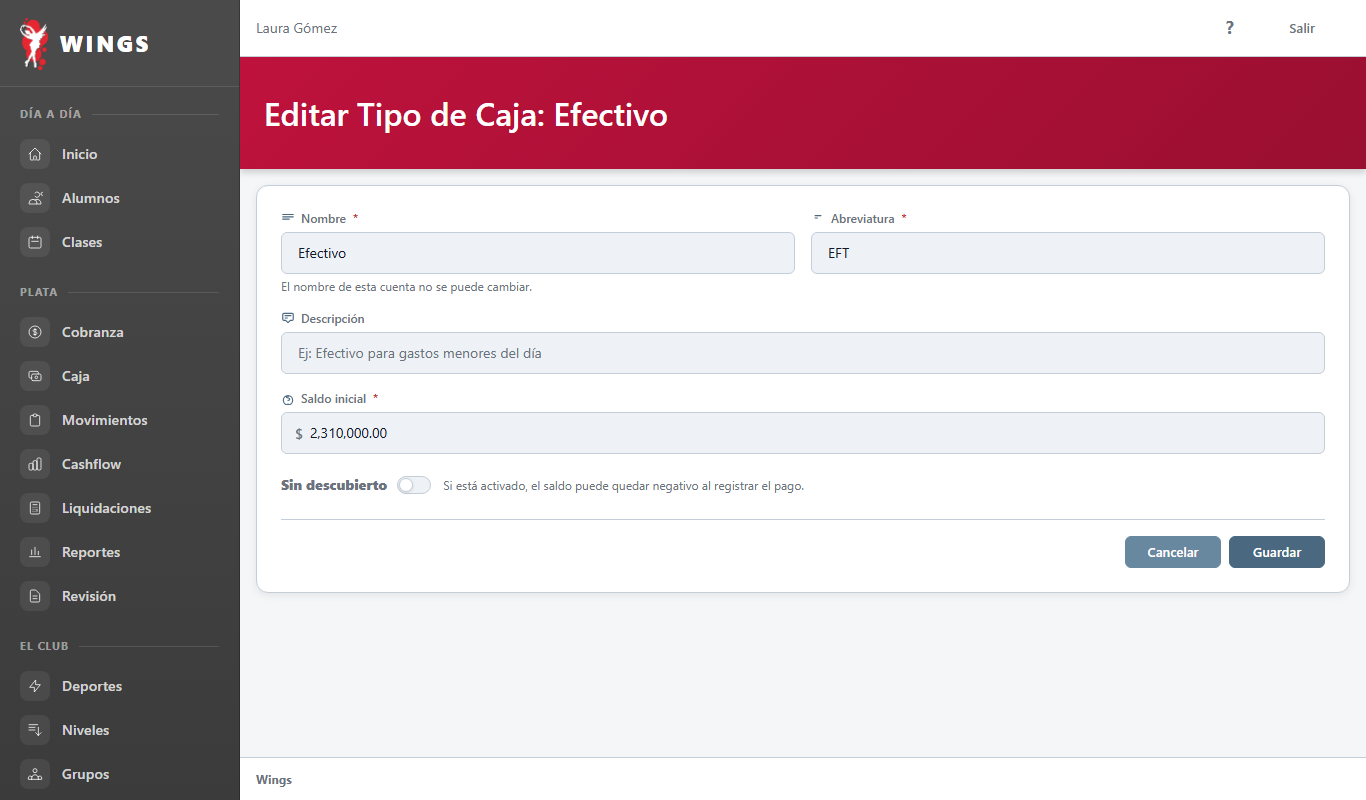
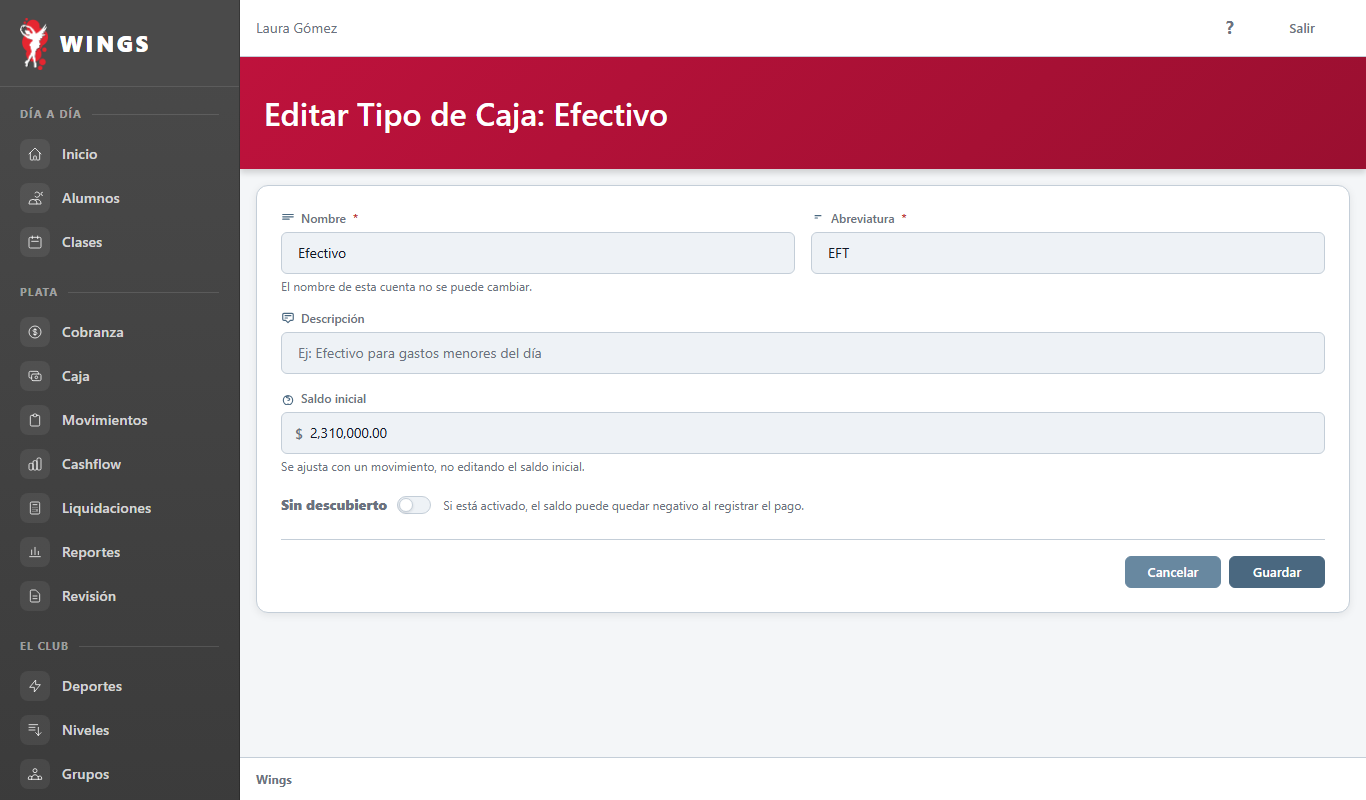
T96: propuesta con el saldo de Efectivo fijo una vez guardado
Pedido de Carlos: cualquier ajuste posterior se hace con un movimiento. Solo cambian las capturas; las vistas siguen igual.

Changed region(s): [[0.1845, 0.5625, 0.5842, 0.6562], [0.7994, 0.6562, 0.9839, 0.75]]

diff --git a/docs/06-pruebas/PRU-04/evidencia-t96/propuesta/html/tipo-caja-efectivo.html b/docs/06-pruebas/PRU-04/evidencia-t96/propuesta/html/tipo-caja-efectivo.html
@@ -3,7 +3,7 @@
 <head>
     <meta charset="utf-8">
     <meta name="viewport" content="width=device-width, initial-scale=1">
-    <meta name="csrf-token" content="wwGAkYJWMB8qHbzw7frOmsOF6N4OolrbOO0ui6R8">
+    <meta name="csrf-token" content="p1tvtMHm5CzNi1BPeU2vQCU2ccIwCyElJTIbNX8j">
     <title>Editar Tipo de Caja – Efectivo</title>
     <link rel="icon" type="image/x-icon" href="http://gestion-wings/favicon.ico">
     <link rel="icon" type="image/png" sizes="32x32" href="http://gestion-wings/favicon-32x32.png">
@@ -236,7 +236,7 @@
                             <span style="font-weight:700; font-size:1.15rem; line-height:1; display:inline-block; transform:translateY(-1px);">?</span>
                         </a>
                                         <form method="POST" action="http://gestion-wings/logout">
-                        <input type="hidden" name="_token" value="wwGAkYJWMB8qHbzw7frOmsOF6N4OolrbOO0ui6R8" autocomplete="off">                        <button class="ds-btn ds-btn--ghost"
+                        <input type="hidden" name="_token" value="p1tvtMHm5CzNi1BPeU2vQCU2ccIwCyElJTIbNX8j" autocomplete="off">                        <button class="ds-btn ds-btn--ghost"
             type="submit"
             >
 
@@ -263,7 +263,7 @@
             
             <div class="filtros-card">
     <form method="POST" action="http://gestion-wings/tipos-caja/1">
-        <input type="hidden" name="_token" value="wwGAkYJWMB8qHbzw7frOmsOF6N4OolrbOO0ui6R8" autocomplete="off">        <input type="hidden" name="_method" value="PUT">        <div class="grid grid-cols-1 md:grid-cols-2 gap-4">
+        <input type="hidden" name="_token" value="p1tvtMHm5CzNi1BPeU2vQCU2ccIwCyElJTIbNX8j" autocomplete="off">        <input type="hidden" name="_method" value="PUT">        <div class="grid grid-cols-1 md:grid-cols-2 gap-4">
 
     
     <div>
@@ -316,23 +316,24 @@
     <div class="md:col-span-2">
         <label for="saldo_inicial" class="flex items-center gap-1.5 text-xs font-medium mb-1.5 text-wings-muted">
             <svg class="w-3.5 h-3.5 flex-shrink-0" fill="none" stroke="currentColor" viewBox="0 0 24 24" style="color: var(--color-btn-primary)"><path stroke-linecap="round" stroke-linejoin="round" stroke-width="2" d="M12 8c-1.657 0-3 .895-3 2s1.343 2 3 2 3 .895 3 2-1.343 2-3 2m0-8v2m0 12v2m8-8a8 8 0 11-16 0 8 8 0 0116 0z"/></svg>
-            Saldo inicial <span class="form-required">*</span>        </label>
+            Saldo inicial         </label>
                 <div class="money-input-wrap ">
         <span class="money-prefix" aria-hidden="true">$</span>
         <input
         type="text"
-         id="saldo_inicial"          name="saldo_inicial"         value="2,310,000.00"
+         id="saldo_inicial"                 value="2,310,000.00"
         placeholder="0"
         inputmode="decimal"
         autocomplete="off"
         data-money="true"
-        required
         
         
+        readonly
         min="0"
                 class="w-full py-2.5 text-sm wings-input money-input"
     >
 </div>
+<p class="text-xs mt-1 text-wings-muted">Se ajusta con un movimiento, no editando el saldo inicial.</p>
                     </div>
 
     

diff --git a/docs/06-pruebas/PRU-04/evidencia-t96/propuesta/html/configuracion-saldo-editable.html b/docs/06-pruebas/PRU-04/evidencia-t96/propuesta/html/configuracion-saldo-editable.html
@@ -3,7 +3,7 @@
 <head>
     <meta charset="utf-8">
     <meta name="viewport" content="width=device-width, initial-scale=1">
-    <meta name="csrf-token" content="wwGAkYJWMB8qHbzw7frOmsOF6N4OolrbOO0ui6R8">
+    <meta name="csrf-token" content="p1tvtMHm5CzNi1BPeU2vQCU2ccIwCyElJTIbNX8j">
     <title>Saldo inicial de Efectivo – Wings</title>
     <link rel="icon" type="image/x-icon" href="http://gestion-wings/favicon.ico">
     <link rel="icon" type="image/png" sizes="32x32" href="http://gestion-wings/favicon-32x32.png">
@@ -236,7 +236,7 @@
                             <span style="font-weight:700; font-size:1.15rem; line-height:1; display:inline-block; transform:translateY(-1px);">?</span>
                         </a>
                                         <form method="POST" action="http://gestion-wings/logout">
-                        <input type="hidden" name="_token" value="wwGAkYJWMB8qHbzw7frOmsOF6N4OolrbOO0ui6R8" autocomplete="off">                        <button class="ds-btn ds-btn--ghost"
+                        <input type="hidden" name="_token" value="p1tvtMHm5CzNi1BPeU2vQCU2ccIwCyElJTIbNX8j" autocomplete="off">                        <button class="ds-btn ds-btn--ghost"
             type="submit"
             >
 
@@ -262,7 +262,7 @@
             
             
             <div class="filtros-card">
-        <p class="text-sm text-wings-muted mb-4">Indicá cuánto efectivo tiene el club hoy. Después del primer movimiento de la cuenta, este saldo no se puede cambiar.</p>
+        <p class="text-sm text-wings-muted mb-4">Indicá cuánto efectivo tiene el club hoy. Una vez guardado no se puede cambiar: cualquier ajuste posterior se hace con un movimiento.</p>
         <form method="POST" action="#">
         <div class="grid grid-cols-1 md:grid-cols-2 gap-4">
             <div>

diff --git a/docs/06-pruebas/PRU-04/evidencia-t96/propuesta/html/configuracion-con-movimientos.html b/docs/06-pruebas/PRU-04/evidencia-t96/propuesta/html/configuracion-con-movimientos.html
@@ -3,7 +3,7 @@
 <head>
     <meta charset="utf-8">
     <meta name="viewport" content="width=device-width, initial-scale=1">
-    <meta name="csrf-token" content="wwGAkYJWMB8qHbzw7frOmsOF6N4OolrbOO0ui6R8">
+    <meta name="csrf-token" content="p1tvtMHm5CzNi1BPeU2vQCU2ccIwCyElJTIbNX8j">
     <title>Saldo inicial de Efectivo – Wings</title>
     <link rel="icon" type="image/x-icon" href="http://gestion-wings/favicon.ico">
     <link rel="icon" type="image/png" sizes="32x32" href="http://gestion-wings/favicon-32x32.png">
@@ -236,7 +236,7 @@
                             <span style="font-weight:700; font-size:1.15rem; line-height:1; display:inline-block; transform:translateY(-1px);">?</span>
                         </a>
                                         <form method="POST" action="http://gestion-wings/logout">
-                        <input type="hidden" name="_token" value="wwGAkYJWMB8qHbzw7frOmsOF6N4OolrbOO0ui6R8" autocomplete="off">                        <button class="ds-btn ds-btn--ghost"
+                        <input type="hidden" name="_token" value="p1tvtMHm5CzNi1BPeU2vQCU2ccIwCyElJTIbNX8j" autocomplete="off">                        <button class="ds-btn ds-btn--ghost"
             type="submit"
             >
 
@@ -262,7 +262,7 @@
             
             
             <div class="filtros-card">
-        <p class="text-sm text-wings-muted mb-4">Efectivo ya tiene movimientos: su saldo inicial no se puede cambiar. Se ajusta con un movimiento.</p>
+        <p class="text-sm text-wings-muted mb-4">Efectivo ya tiene movimientos: su saldo inicial no se puede cambiar. Cualquier ajuste se hace con un movimiento.</p>
         <form method="POST" action="#">
         <div class="grid grid-cols-1 md:grid-cols-2 gap-4">
             <div>

diff --git a/docs/06-pruebas/PRU-04/evidencia-t96/propuesta/html/caja-configurada.html b/docs/06-pruebas/PRU-04/evidencia-t96/propuesta/html/caja-configurada.html
@@ -3,7 +3,7 @@
 <head>
     <meta charset="utf-8">
     <meta name="viewport" content="width=device-width, initial-scale=1">
-    <meta name="csrf-token" content="wwGAkYJWMB8qHbzw7frOmsOF6N4OolrbOO0ui6R8">
+    <meta name="csrf-token" content="p1tvtMHm5CzNi1BPeU2vQCU2ccIwCyElJTIbNX8j">
     <title>Caja – Wings</title>
     <link rel="icon" type="image/x-icon" href="http://gestion-wings/favicon.ico">
     <link rel="icon" type="image/png" sizes="32x32" href="http://gestion-wings/favicon-32x32.png">
@@ -236,7 +236,7 @@
                             <span style="font-weight:700; font-size:1.15rem; line-height:1; display:inline-block; transform:translateY(-1px);">?</span>
                         </a>
                                         <form method="POST" action="http://gestion-wings/logout">
-                        <input type="hidden" name="_token" value="wwGAkYJWMB8qHbzw7frOmsOF6N4OolrbOO0ui6R8" autocomplete="off">                        <button class="ds-btn ds-btn--ghost"
+                        <input type="hidden" name="_token" value="p1tvtMHm5CzNi1BPeU2vQCU2ccIwCyElJTIbNX8j" autocomplete="off">                        <button class="ds-btn ds-btn--ghost"
             type="submit"
             >
 

diff --git a/docs/06-pruebas/PRU-04/evidencia-t96/propuesta/html/caja-sin-configurar.html b/docs/06-pruebas/PRU-04/evidencia-t96/propuesta/html/caja-sin-configurar.html
@@ -3,7 +3,7 @@
 <head>
     <meta charset="utf-8">
     <meta name="viewport" content="width=device-width, initial-scale=1">
-    <meta name="csrf-token" content="wwGAkYJWMB8qHbzw7frOmsOF6N4OolrbOO0ui6R8">
+    <meta name="csrf-token" content="p1tvtMHm5CzNi1BPeU2vQCU2ccIwCyElJTIbNX8j">
     <title>Caja – Wings</title>
     <link rel="icon" type="image/x-icon" href="http://gestion-wings/favicon.ico">
     <link rel="icon" type="image/png" sizes="32x32" href="http://gestion-wings/favicon-32x32.png">
@@ -236,7 +236,7 @@
                             <span style="font-weight:700; font-size:1.15rem; line-height:1; display:inline-block; transform:translateY(-1px);">?</span>
                         </a>
                                         <form method="POST" action="http://gestion-wings/logout">
-                        <input type="hidden" name="_token" value="wwGAkYJWMB8qHbzw7frOmsOF6N4OolrbOO0ui6R8" autocomplete="off">                        <button class="ds-btn ds-btn--ghost"
+                        <input type="hidden" name="_token" value="p1tvtMHm5CzNi1BPeU2vQCU2ccIwCyElJTIbNX8j" autocomplete="off">                        <button class="ds-btn ds-btn--ghost"
             type="submit"
             >
 

diff --git a/docs/06-pruebas/PRU-04/APROBAR-T96-PROPUESTA.html b/docs/06-pruebas/PRU-04/APROBAR-T96-PROPUESTA.html
@@ -20,6 +20,6 @@ img{border:1px solid #d8e0ea;background:#fff;max-width:100%}
 <h2>4. Caja ya configurada: solo Abrir, con el texto que tenía antes de T96</h2>
 <p>Configurar desaparece. Si alguien escribe la dirección de la pantalla, vuelve a Caja.</p>
 <div class="fila"><img class="esc" src="evidencia-t96/propuesta/caja-configurada-1366.png" alt=""><img class="cel" src="evidencia-t96/propuesta/caja-configurada-375.png" alt=""></div>
-<h2>5. Tipos de Caja, editando Efectivo: el nombre no se puede cambiar</h2>
+<h2>5. Tipos de Caja, editando Efectivo ya configurado: ni el nombre ni el saldo inicial se pueden cambiar</h2>
 <div class="fila"><img class="esc" src="evidencia-t96/propuesta/tipo-caja-efectivo-1366.png" alt=""><img class="cel" src="evidencia-t96/propuesta/tipo-caja-efectivo-375.png" alt=""></div>
 </body></html>

diff --git a/docs/06-pruebas/PRU-04/evidencia-t96/propuesta/CapturasPropuestaT96Test.php b/docs/06-pruebas/PRU-04/evidencia-t96/propuesta/CapturasPropuestaT96Test.php
@@ -83,9 +83,9 @@ class CapturasPropuestaT96Test extends TestCase
         $parte = Blade::render(<<<'BLADE'
 <div class="filtros-card">
     @if($editable)
-    <p class="text-sm text-wings-muted mb-4">Indicá cuánto efectivo tiene el club hoy. Después del primer movimiento de la cuenta, este saldo no se puede cambiar.</p>
+    <p class="text-sm text-wings-muted mb-4">Indicá cuánto efectivo tiene el club hoy. Una vez guardado no se puede cambiar: cualquier ajuste posterior se hace con un movimiento.</p>
     @else
-    <p class="text-sm text-wings-muted mb-4">Efectivo ya tiene movimientos: su saldo inicial no se puede cambiar. Se ajusta con un movimiento.</p>
+    <p class="text-sm text-wings-muted mb-4">Efectivo ya tiene movimientos: su saldo inicial no se puede cambiar. Cualquier ajuste se hace con un movimiento.</p>
     @endif
     <form method="POST" action="#">
         <div class="grid grid-cols-1 md:grid-cols-2 gap-4">
@@ -123,6 +123,15 @@ BLADE, compact('editable', 'saldo', 'etiqueta'));
             '<input type="text" id="nombre" readonly$1><p class="text-xs mt-1 text-wings-muted">El nombre de esta cuenta no se puede cambiar.</p>',
             $html, 1, $cambios
         );
+        $this->assertSame(1, $cambios);
+
+        // El saldo de Efectivo ya guardado se ve igual que el de una cuenta con historial.
+        $saldo = Blade::render(
+            '<x-ds.money-input id="saldo_inicial" :value="2310000" readonly /><p class="text-xs mt-1 text-wings-muted">Se ajusta con un movimiento, no editando el saldo inicial.</p>'
+        );
+        $nuevo = preg_replace('#<div class="money-input-wrap[^"]*">.*?</div>#s', $saldo, $nuevo, 1, $cambios);
+        $this->assertSame(1, $cambios);
+        $nuevo = preg_replace('#(Saldo inicial\s*)<span class="form-required">\*</span>#', '$1', $nuevo, 1, $cambios);
         $this->assertSame(1, $cambios);
 
         return str_replace(' required autofocus', '', $nuevo);
